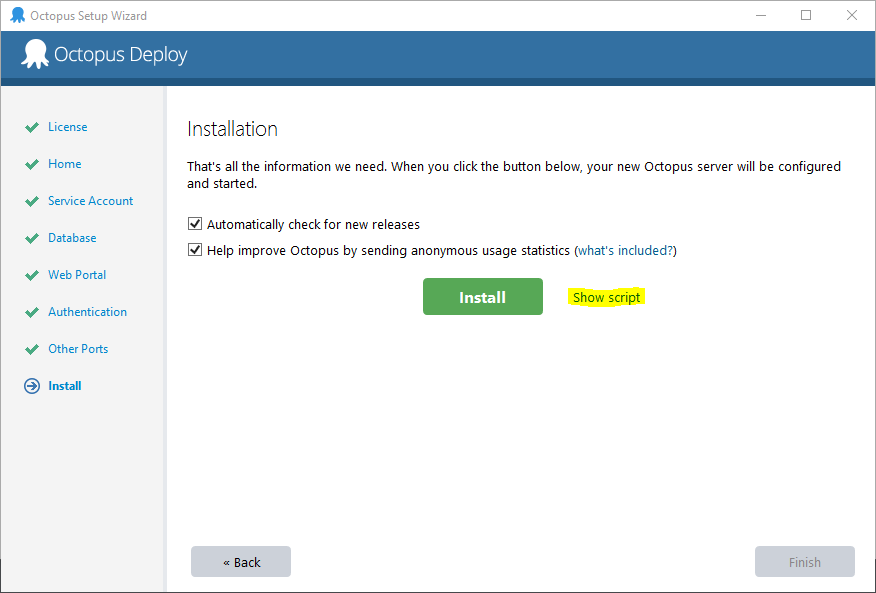
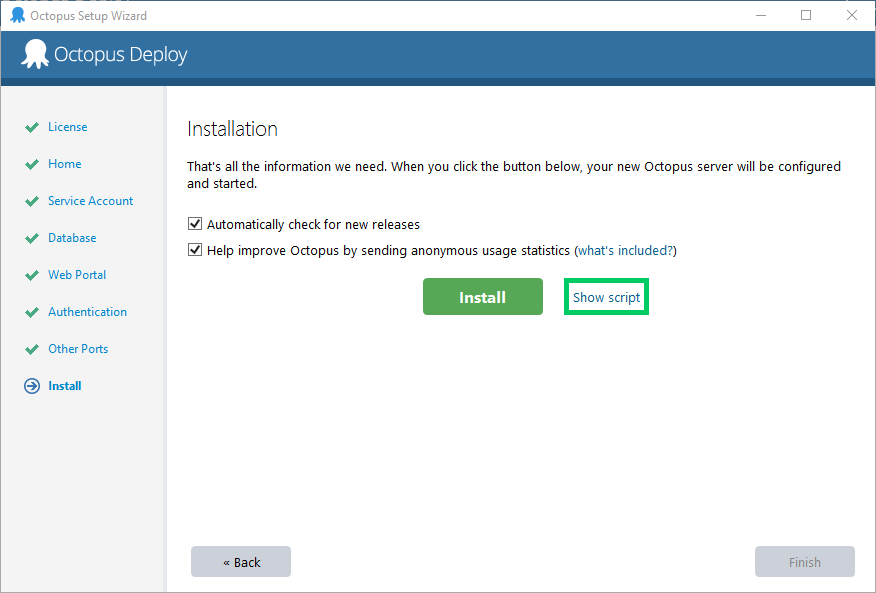
Updated dsc urls
Highlight image link

Changed region(s): [[0.6164, 0.4553, 0.7397, 0.5464], [0.9863, 0.9713, 1.0, 1.0], [0.9863, 0.0, 1.0, 0.0304]]

diff --git a/docs/installation/installing-tentacles/automating-tentacle-installation.md b/docs/installation/installing-tentacles/automating-tentacle-installation.md
@@ -137,7 +137,7 @@ Tentacle.exe show-thumbprint --instance "Tentacle" --nologo
 
 ## Desired State Configuration {#AutomatingTentacleinstallation-DSCDesiredStateConfiguration}
 
-Tentacles can also be installed via [Desired State Configuration](https://msdn.microsoft.com/en-us/powershell/dsc/overview) (DSC). Using the module from the [OctopusDSC GitHub repository](https://github.com/OctopusDeploy/OctopusDSC), you can add, remove, start and stop Tentacles in either polling or listening mode.
+Tentacles can also be installed via [Desired State Configuration](https://msdn.microsoft.com/en-us/powershell/dsc/overview) (DSC). Using the module from the [OctopusDSC GitHub repository](https://www.powershellgallery.com/packages/OctopusDSC), you can add, remove, start and stop Tentacles in either polling or listening mode.
 
 The following PowerShell script will install a Tentacle listening on port `10933` against the Octopus server at `https://YOUR_OCTOPUS`, add it to the `Development` environment and assign the `web-server` and `app-server` roles:
 

diff --git a/docs/installation/installing-octopus/automating-installation.md b/docs/installation/installing-octopus/automating-installation.md
@@ -57,7 +57,7 @@ To run the script start an admin shell prompt and paste the script onto it, this
 
 ## Desired State Configuration
 
-Octopus can also be installed via [Desired State Configuration](https://msdn.microsoft.com/en-us/powershell/dsc/overview) (DSC). Using the module from the [OctopusDSC GitHub repository](https://github.com/OctopusDeploy/OctopusDSC).
+Octopus can also be installed via [Desired State Configuration](https://msdn.microsoft.com/en-us/powershell/dsc/overview) (DSC). Using the module from the [OctopusDSC GitHub repository](https://www.powershellgallery.com/packages/OctopusDSC).
 
 The following PowerShell script will install a Octopus server listening on port `80`:
 
